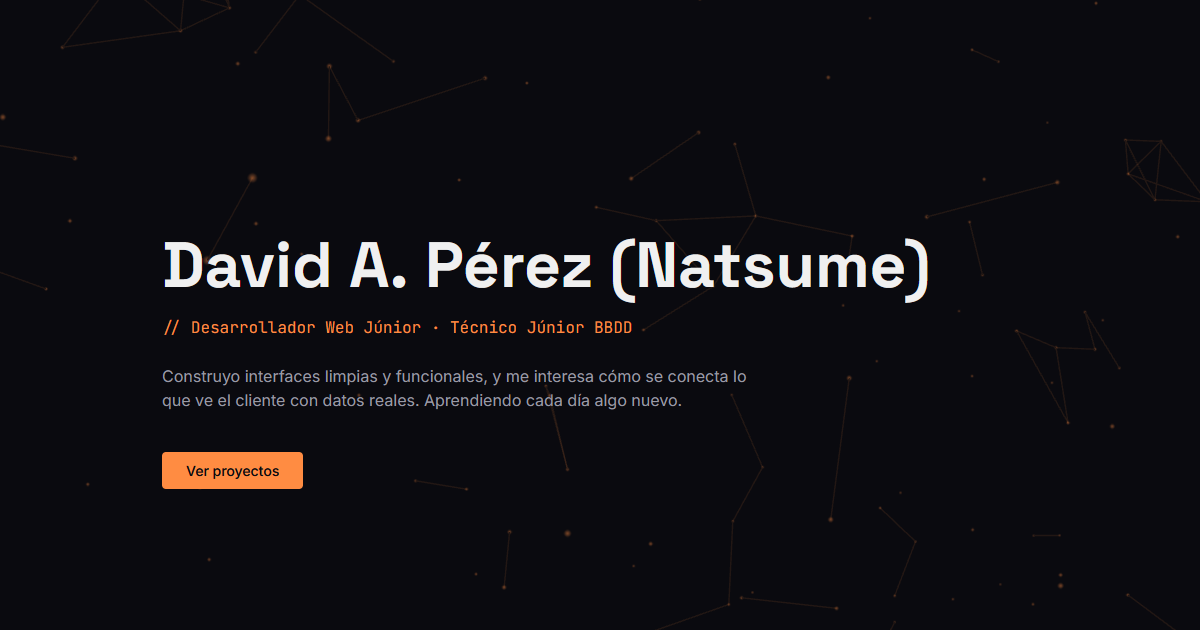
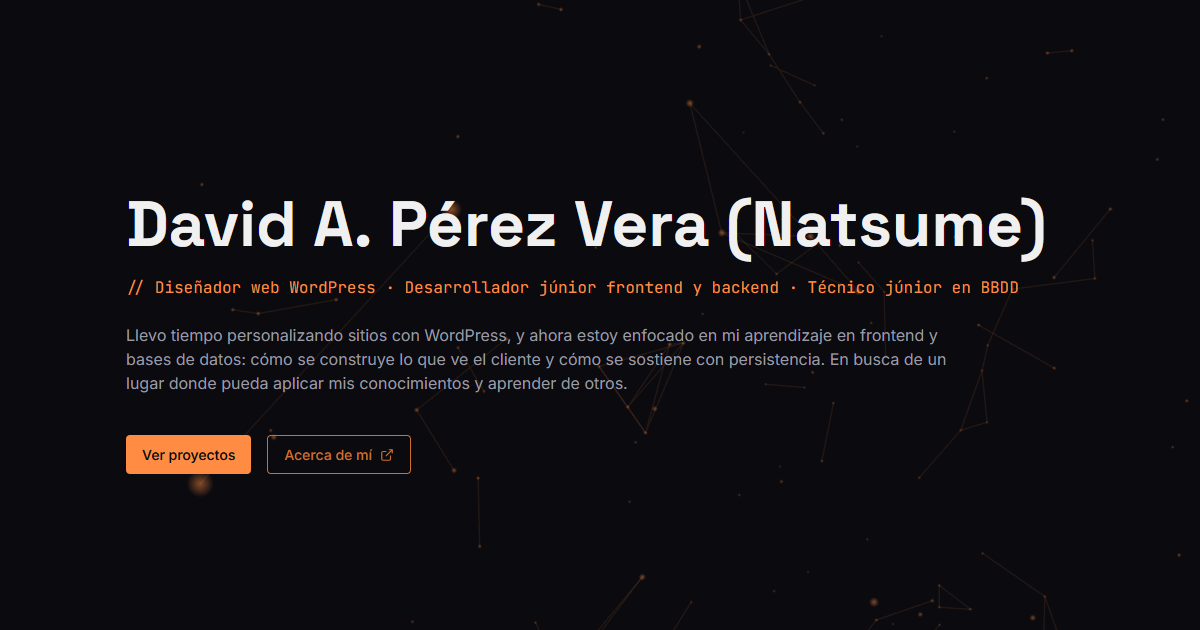
feat: añade botones de Twitter/X, Discord, YouTube y Neocities en contacto

Changed region(s): [[0.0925, 0.3016, 0.8942, 0.4825], [0.0925, 0.5127, 0.7708, 0.7841]]

diff --git a/index.html b/index.html
@@ -110,13 +110,15 @@
       <section id="hero" class="hero" aria-label="Sección de presentación">
         <h1 class="hero__title">David A. Pérez Vera (Natsume)</h1>
         <p class="hero__subtitle">
-          // Desarrollador júnior frontend y backend · Técnico júnior en BBDD ·
-          Diseñador web WordPress
+          // Diseñador web WordPress · Desarrollador júnior frontend y backend ·
+          Técnico júnior en BBDD
         </p>
         <p class="hero__description">
-          Construyo interfaces limpias y funcionales, y me interesa cómo se
-          conecta lo que ve el cliente con datos reales. Actualmente explorando
-          para seguir aprendiendo y crear nuevos proyectos.
+          Llevo tiempo personalizando sitios con WordPress, y ahora estoy
+          enfocado en mi aprendizaje en frontend y bases de datos: cómo se
+          construye lo que ve el cliente y cómo se sostiene con persistencia. En
+          busca de un lugar donde pueda aplicar mis conocimientos y aprender de
+          otros.
         </p>
         <div class="hero__cta">
           <a href="#proyectos" class="btn btn--primary">Ver proyectos</a>
@@ -171,10 +173,11 @@
         class="section reveal"
         aria-label="Sección de contacto"
       >
-        <h2 class="section__title">Habl<span>emos</span></h2>
+        <h2 class="section__title">Cont<span>acto</span></h2>
         <p class="contact__intro">
-          Busco una oportunidad laboral. ¿Tienes una vacante en tu empresa?
-          Escríbeme.
+          Me gustaría dar el salto al mundo laboral como desarrollador. Si
+          tienes un proyecto, una vacante o una idea interesante para compartir,
+          escríbeme.
         </p>
 
         <div class="contact__links">
@@ -200,8 +203,6 @@
             <svg
               class="contact-link__icon"
               viewBox="0 0 128 128"
-              width="14"
-              height="14"
               fill="currentColor"
               aria-hidden="true"
             >
@@ -226,7 +227,131 @@
               <path d="M10 14 21 3" /></svg
           ></a>
         </div>
-        <!-- futuro: <div class="contact__links contact__links--secondary"><a class="contact-link"> para Twitter, Discord, etc. -->
+
+        <div class="contact__links contact__links--secondary">
+          <a
+            class="contact-link"
+            href="https://twitter.com/dabidenatsume"
+            target="_blank"
+            rel="noopener noreferrer"
+          >
+            <svg
+              class="contact-link__icon"
+              viewBox="0 0 24 24"
+              fill="currentColor"
+              aria-hidden="true"
+            >
+              <path
+                d="M14.234 10.162 22.977 0h-2.072l-7.591 8.824L7.251 0H.258l9.168 13.343L.258 24H2.33l8.016-9.318L16.749 24h6.993zm-2.837 3.299-.929-1.329L3.076 1.56h3.182l5.965 8.532.929 1.329 7.754 11.09h-3.182z"
+              />
+            </svg>
+            Twitter<svg
+              class="icon-external"
+              viewBox="0 0 24 24"
+              width="14"
+              height="14"
+              fill="none"
+              stroke="currentColor"
+              stroke-width="2"
+              aria-hidden="true"
+            >
+              <path
+                d="M18 13v6a2 2 0 0 1-2 2H5a2 2 0 0 1-2-2V8a2 2 0 0 1 2-2h6"
+              />
+              <path d="M15 3h6v6" />
+              <path d="M10 14 21 3" />
+            </svg>
+          </a>
+          <a
+            class="contact-link"
+            href="https://discord.gg/FZKFHXg"
+            target="_blank"
+            rel="noopener"
+          >
+            <svg
+              class="contact-link__icon"
+              viewBox="0 0 24 24"
+              fill="currentColor"
+              aria-hidden="true"
+            >
+              <path
+                d="M20.317 4.3698a19.7913 19.7913 0 00-4.8851-1.5152.0741.0741 0 00-.0785.0371c-.211.3753-.4447.8648-.6083 1.2495-1.8447-.2762-3.68-.2762-5.4868 0-.1636-.3933-.4058-.8742-.6177-1.2495a.077.077 0 00-.0785-.037 19.7363 19.7363 0 00-4.8852 1.515.0699.0699 0 00-.0321.0277C.5334 9.0458-.319 13.5799.0992 18.0578a.0824.0824 0 00.0312.0561c2.0528 1.5076 4.0413 2.4228 5.9929 3.0294a.0777.0777 0 00.0842-.0276c.4616-.6304.8731-1.2952 1.226-1.9942a.076.076 0 00-.0416-.1057c-.6528-.2476-1.2743-.5495-1.8722-.8923a.077.077 0 01-.0076-.1277c.1258-.0943.2517-.1923.3718-.2914a.0743.0743 0 01.0776-.0105c3.9278 1.7933 8.18 1.7933 12.0614 0a.0739.0739 0 01.0785.0095c.1202.099.246.1981.3728.2924a.077.077 0 01-.0066.1276 12.2986 12.2986 0 01-1.873.8914.0766.0766 0 00-.0407.1067c.3604.698.7719 1.3628 1.225 1.9932a.076.076 0 00.0842.0286c1.961-.6067 3.9495-1.5219 6.0023-3.0294a.077.077 0 00.0313-.0552c.5004-5.177-.8382-9.6739-3.5485-13.6604a.061.061 0 00-.0312-.0286zM8.02 15.3312c-1.1825 0-2.1569-1.0857-2.1569-2.419 0-1.3332.9555-2.4189 2.157-2.4189 1.2108 0 2.1757 1.0952 2.1568 2.419 0 1.3332-.9555 2.4189-2.1569 2.4189zm7.9748 0c-1.1825 0-2.1569-1.0857-2.1569-2.419 0-1.3332.9554-2.4189 2.1569-2.4189 1.2108 0 2.1757 1.0952 2.1568 2.419 0 1.3332-.946 2.4189-2.1568 2.4189Z"
+              ></path>
+            </svg>
+            Discord<svg
+              class="icon-external"
+              viewBox="0 0 24 24"
+              width="14"
+              height="14"
+              fill="none"
+              stroke="currentColor"
+              stroke-width="2"
+              aria-hidden="true"
+            >
+              <path
+                d="M18 13v6a2 2 0 0 1-2 2H5a2 2 0 0 1-2-2V8a2 2 0 0 1 2-2h6"
+              />
+              <path d="M15 3h6v6" />
+              <path d="M10 14 21 3" />
+            </svg>
+          </a>
+          <a
+            class="contact-link"
+            href="https://www.youtube.com/user/NatsuDragonil17"
+            target="_blank"
+            rel="noopener"
+          >
+            <svg
+              class="contact-link__icon"
+              viewBox="0 0 24 24"
+              fill="currentColor"
+              aria-hidden="true"
+            >
+              <path
+                d="M23.498 6.186a3.016 3.016 0 0 0-2.122-2.136C19.505 3.545 12 3.545 12 3.545s-7.505 0-9.377.505A3.017 3.017 0 0 0 .502 6.186C0 8.07 0 12 0 12s0 3.93.502 5.814a3.016 3.016 0 0 0 2.122 2.136c1.871.505 9.376.505 9.376.505s7.505 0 9.377-.505a3.015 3.015 0 0 0 2.122-2.136C24 15.93 24 12 24 12s0-3.93-.502-5.814zM9.545 15.568V8.432L15.818 12l-6.273 3.568z"
+              ></path>
+            </svg>
+            YouTube<svg
+              class="icon-external"
+              viewBox="0 0 24 24"
+              width="14"
+              height="14"
+              fill="none"
+              stroke="currentColor"
+              stroke-width="2"
+              aria-hidden="true"
+            >
+              <path
+                d="M18 13v6a2 2 0 0 1-2 2H5a2 2 0 0 1-2-2V8a2 2 0 0 1 2-2h6"
+              />
+              <path d="M15 3h6v6" />
+              <path d="M10 14 21 3" />
+            </svg>
+          </a>
+          <a
+            class="contact-link"
+            href="https://david-a-perez.neocities.org/"
+            target="_blank"
+            rel="noopener"
+          >
+            Neocities<svg
+              class="icon-external"
+              viewBox="0 0 24 24"
+              width="14"
+              height="14"
+              fill="none"
+              stroke="currentColor"
+              stroke-width="2"
+              aria-hidden="true"
+            >
+              <path
+                d="M18 13v6a2 2 0 0 1-2 2H5a2 2 0 0 1-2-2V8a2 2 0 0 1 2-2h6"
+              />
+              <path d="M15 3h6v6" />
+              <path d="M10 14 21 3" />
+            </svg>
+          </a>
+        </div>
       </section>
     </main>
 

diff --git a/css/main.css b/css/main.css
@@ -65,16 +65,9 @@
   ); /* al pasar el ratón, resalta con el acento ámbar */
 }
 
-.nav__links .btn--primary {
-  color: var(
-    --color-text
-  ); /* casi blanco, en vez del texto oscuro por defecto de .btn--primary */
-}
-
+.nav__links .btn--primary,
 .nav__links .btn--primary:hover {
-  color: var(
-    --color-bg
-  ); /* vuelve al texto oscuro solo en hover, cuando el fondo se aclara */
+  color: var(--color-bg);
 }
 
 /* ============================================
@@ -233,6 +226,10 @@
   gap: var(--space-md);
 }
 
+.contact__links--secondary {
+  margin-top: var(--space-md);
+}
+
 .contact__intro {
   color: var(--color-text-secondary);
   margin-bottom: var(--space-lg);
@@ -352,10 +349,9 @@
     text-align: center;
   }
 
-  .hero__cta,
-  .contact__links {
+  .hero__cta {
     flex-direction: column; /* uno por línea en vez de en fila */
-    width: 100%;
+    align-items: center; /* centra los botones de contacto en móvil */
   }
 
   .tech__category-title,
@@ -364,5 +360,11 @@
   .contact__intro {
     justify-content: center; /* para los que ya son flex, como .tech__grid */
     text-align: center; /* para los títulos, que son texto normal */
+  }
+
+  .contact__links,
+  .contact__links--secondary {
+    flex-direction: column; /* uno por línea en vez de en fila */
+    align-items: center; /* centra los botones de contacto en móvil */
   }
 }

diff --git a/css/components.css b/css/components.css
@@ -41,13 +41,17 @@
 
 .btn--secondary {
   background-color: transparent;
-  color: var(--color-text);
-  border: 1px solid var(--color-border);
+  color: var(
+    --color-accent-dim
+  ); /* acento apagado, para no competir con el botón principal */
+  border: 1px solid var(--color-accent-dim); /* borde ámbar apagado, para no competir con el botón principal */
 }
 
 .btn--secondary:hover {
-  border-color: var(--color-accent);
-  color: var(--color-accent);
+  border-color: var(--color-accent-light);
+  color: var(
+    --color-text
+  ); /* texto casi blanco, para resaltar sobre el fondo oscuro */
 }
 
 /* ============================================
@@ -190,7 +194,7 @@
   align-items: center;
   gap: var(--space-xs);
 
-  padding: var(--space-sm) var(--space-md);
+  padding: var(--space-xs) var(--space-sm);
   border: 1px solid var(--color-border);
   border-radius: var(--radius-sm);
 
@@ -247,7 +251,6 @@ MEDIA QUERIES
   }
 
   .btn {
-    width: 100%; /* botones a pantalla completa en móvil */
     justify-content: center; /* centra el contenido del botón */
     font-size: var(
       --text-sm
